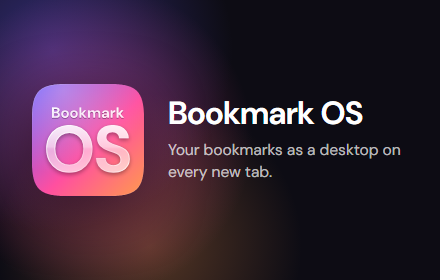
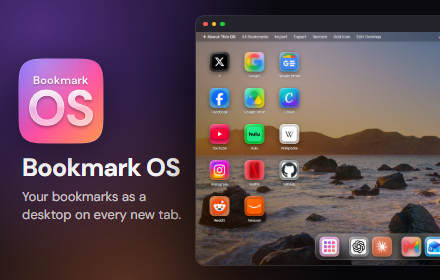
Build store promo tiles around the desktop screenshot
- promo-440x280.png now shows screenshot 1 in a browser window next to
  the logo and name, so the tile shows what the extension is.
- promo-1400x560.png: new marquee tile, same layout.
- promo.html: source for both tiles, rendered with headless Chrome.

diff --git a/extension/store/promo.html b/extension/store/promo.html
@@ -1,0 +1,87 @@
+<!doctype html>
+<!--
+  Source for the store promo tiles. Renders at the size given in the query
+  string, built around screenshot-1-desktop.png so the tile shows the product.
+
+    chrome --headless --hide-scrollbars --virtual-time-budget=3000 --window-size=440,280   --screenshot=promo-440x280.png    "file:///.../promo.html?small"
+    chrome --headless --hide-scrollbars --virtual-time-budget=3000 --window-size=1400,560  --screenshot=promo-1400x560.png   "file:///.../promo.html?marquee"
+-->
+<html>
+<head>
+<meta charset="utf-8">
+<style>
+@font-face {
+    font-family: 'DM Sans';
+    font-weight: 300 700;
+    src: url('../../media/fonts/dm-sans-latin.woff2') format('woff2');
+}
+* { margin: 0; box-sizing: border-box; }
+html, body { height: 100%; overflow: hidden; }
+body {
+    position: relative;
+    font-family: 'DM Sans', sans-serif;
+    color: #fff;
+    background:
+        radial-gradient(circle at 8% 10%, rgba(132, 74, 214, .55), transparent 45%),
+        radial-gradient(circle at 25% 105%, rgba(214, 110, 60, .38), transparent 45%),
+        #0c0b12;
+}
+.brand { position: absolute; display: flex; flex-direction: column; }
+.brand img.logo { filter: drop-shadow(0 6px 18px rgba(0, 0, 0, .45)); }
+.brand h1 { font-weight: 700; letter-spacing: -.02em; line-height: 1.05; }
+.brand p  { color: rgba(255, 255, 255, .72); line-height: 1.35; text-wrap: balance; }
+
+/* Browser window holding the screenshot */
+.window {
+    position: absolute;
+    border-radius: var(--r);
+    overflow: hidden;
+    background: #24232b;
+    box-shadow: 0 0 0 1px rgba(255, 255, 255, .12), 0 24px 60px rgba(0, 0, 0, .6);
+}
+.window .bar {
+    height: var(--bar);
+    display: flex; align-items: center; gap: calc(var(--bar) * .22);
+    padding-left: calc(var(--bar) * .45);
+}
+.window .bar i { width: calc(var(--bar) * .3); height: calc(var(--bar) * .3); border-radius: 50%; }
+.window .bar i:nth-child(1) { background: #ff5f57; }
+.window .bar i:nth-child(2) { background: #febc2e; }
+.window .bar i:nth-child(3) { background: #28c840; }
+.window img { display: block; width: 100%; }
+
+/* 440 × 280 small tile: window runs off the right edge so the icons and
+   dock stay big enough to read. */
+.small .brand  { left: 22px; top: 0; bottom: 0; width: 170px; justify-content: center; }
+.small .logo   { width: 88px; height: 88px; margin: 0 0 10px -5px; }
+.small h1      { font-size: 25px; }
+.small p       { font-size: 13px; margin-top: 7px; }
+.small .window { --r: 9px; --bar: 16px; left: 196px; top: 16px; width: 372px; }
+
+/* 1400 × 560 marquee */
+.marquee .brand  { left: 90px; top: 0; bottom: 0; width: 470px; justify-content: center; }
+.marquee .logo   { width: 160px; height: 160px; margin: 0 0 24px -10px; }
+.marquee h1      { font-size: 64px; }
+.marquee p       { font-size: 26px; margin-top: 16px; }
+.marquee p.fine  { font-size: 18px; margin-top: 22px; color: rgba(255, 255, 255, .5); }
+.marquee .window { --r: 14px; --bar: 28px; left: 590px; top: 35px; width: 740px; }
+</style>
+</head>
+<body>
+<div class="brand">
+    <img class="logo" src="../../media/app-icon.svg" alt="">
+    <h1>Bookmark OS</h1>
+    <p>Your bookmarks as a desktop on every new tab.</p>
+    <p class="fine">No account · No permissions · Stays in your browser</p>
+</div>
+<div class="window">
+    <div class="bar"><i></i><i></i><i></i></div>
+    <img src="screenshot-1-desktop.png" alt="">
+</div>
+<script>
+    const size = location.search.slice(1) || 'marquee';
+    document.body.className = size;
+    if (size === 'small') document.querySelector('.fine').remove();
+</script>
+</body>
+</html>

diff --git a/extension/store/LISTING.md b/extension/store/LISTING.md
@@ -31,6 +31,8 @@ Try it in your browser first: https://chengmarc.com
 - `screenshot-1-desktop.png` — 1280×800
 - `screenshot-2-bookmarks.png` — 1280×800
 - `promo-440x280.png` — small promo tile
+- `promo-1400x560.png` — marquee promo tile
+- `promo.html` — source for both tiles; re-render with headless Chrome (commands in the file) after updating screenshot 1
 - Store icon: `../icons/icon-128.png`
 
 ## Privacy policy URL
